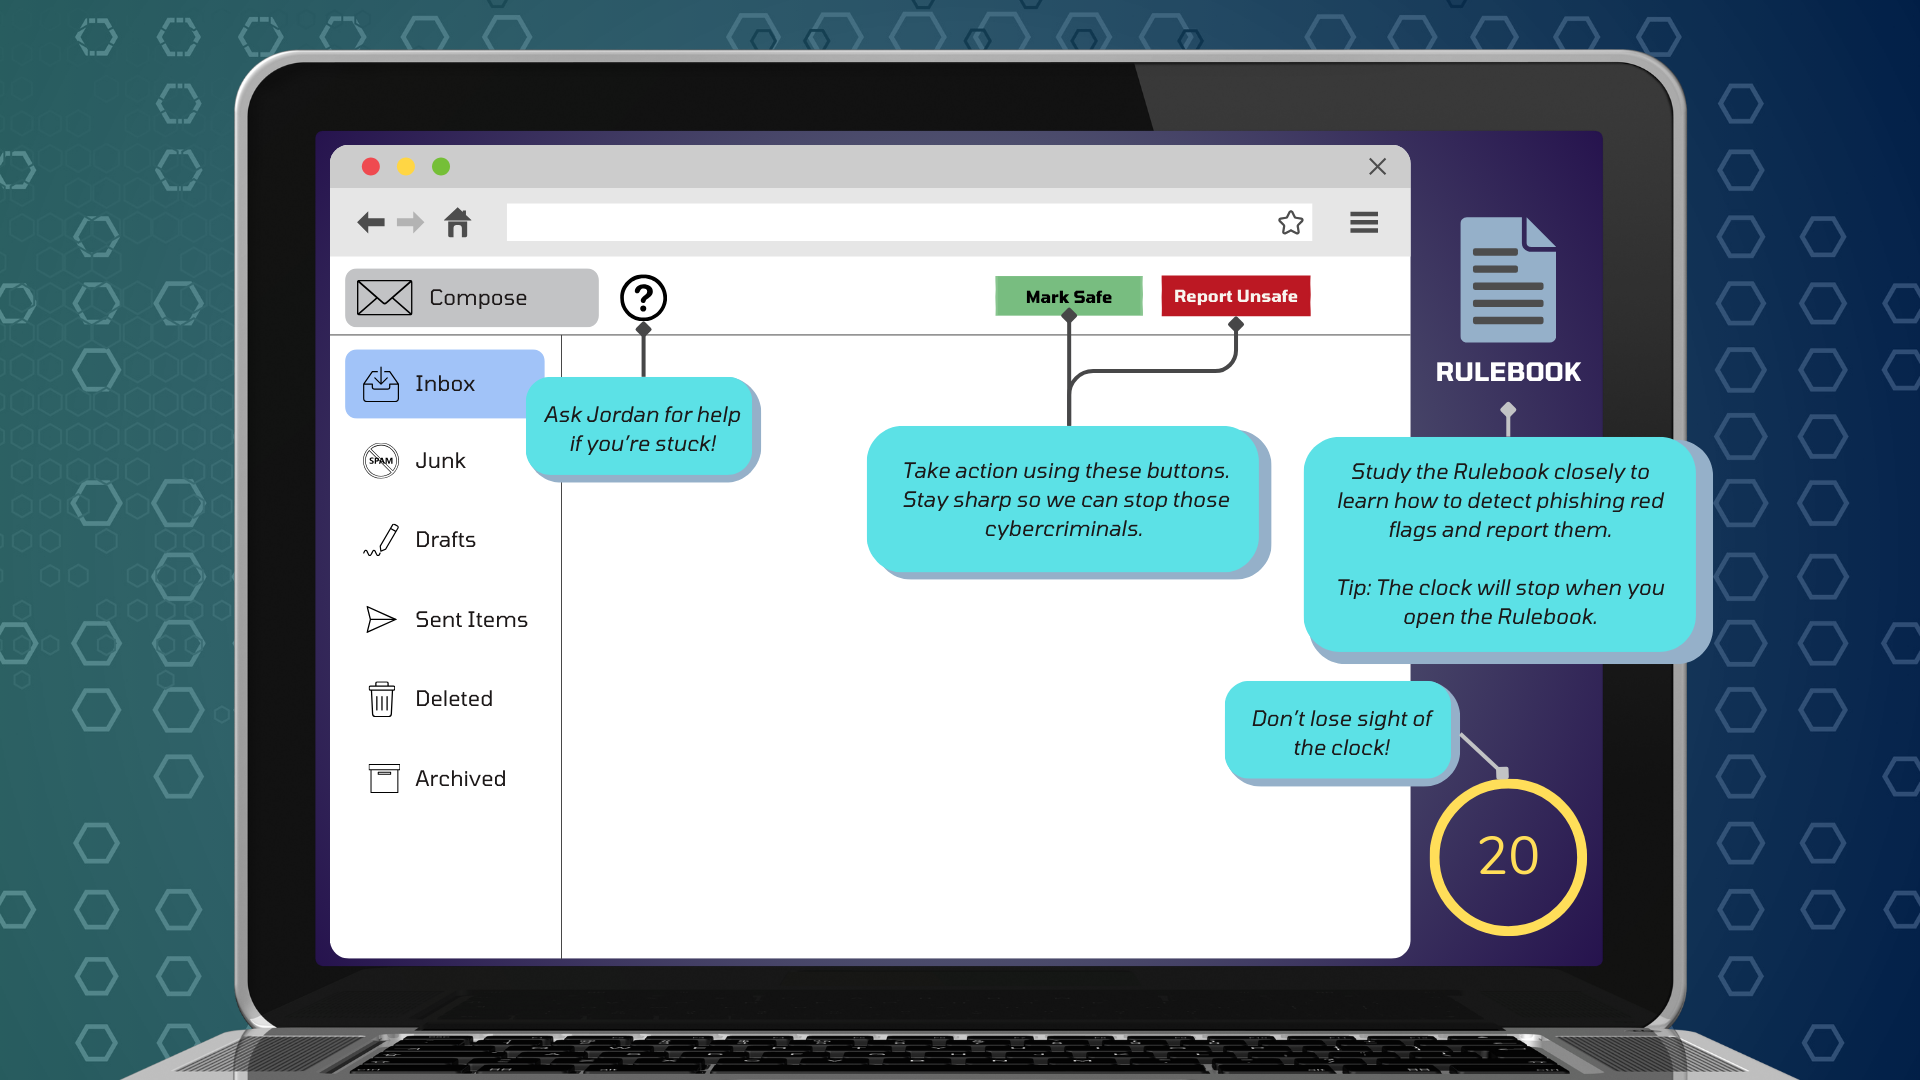
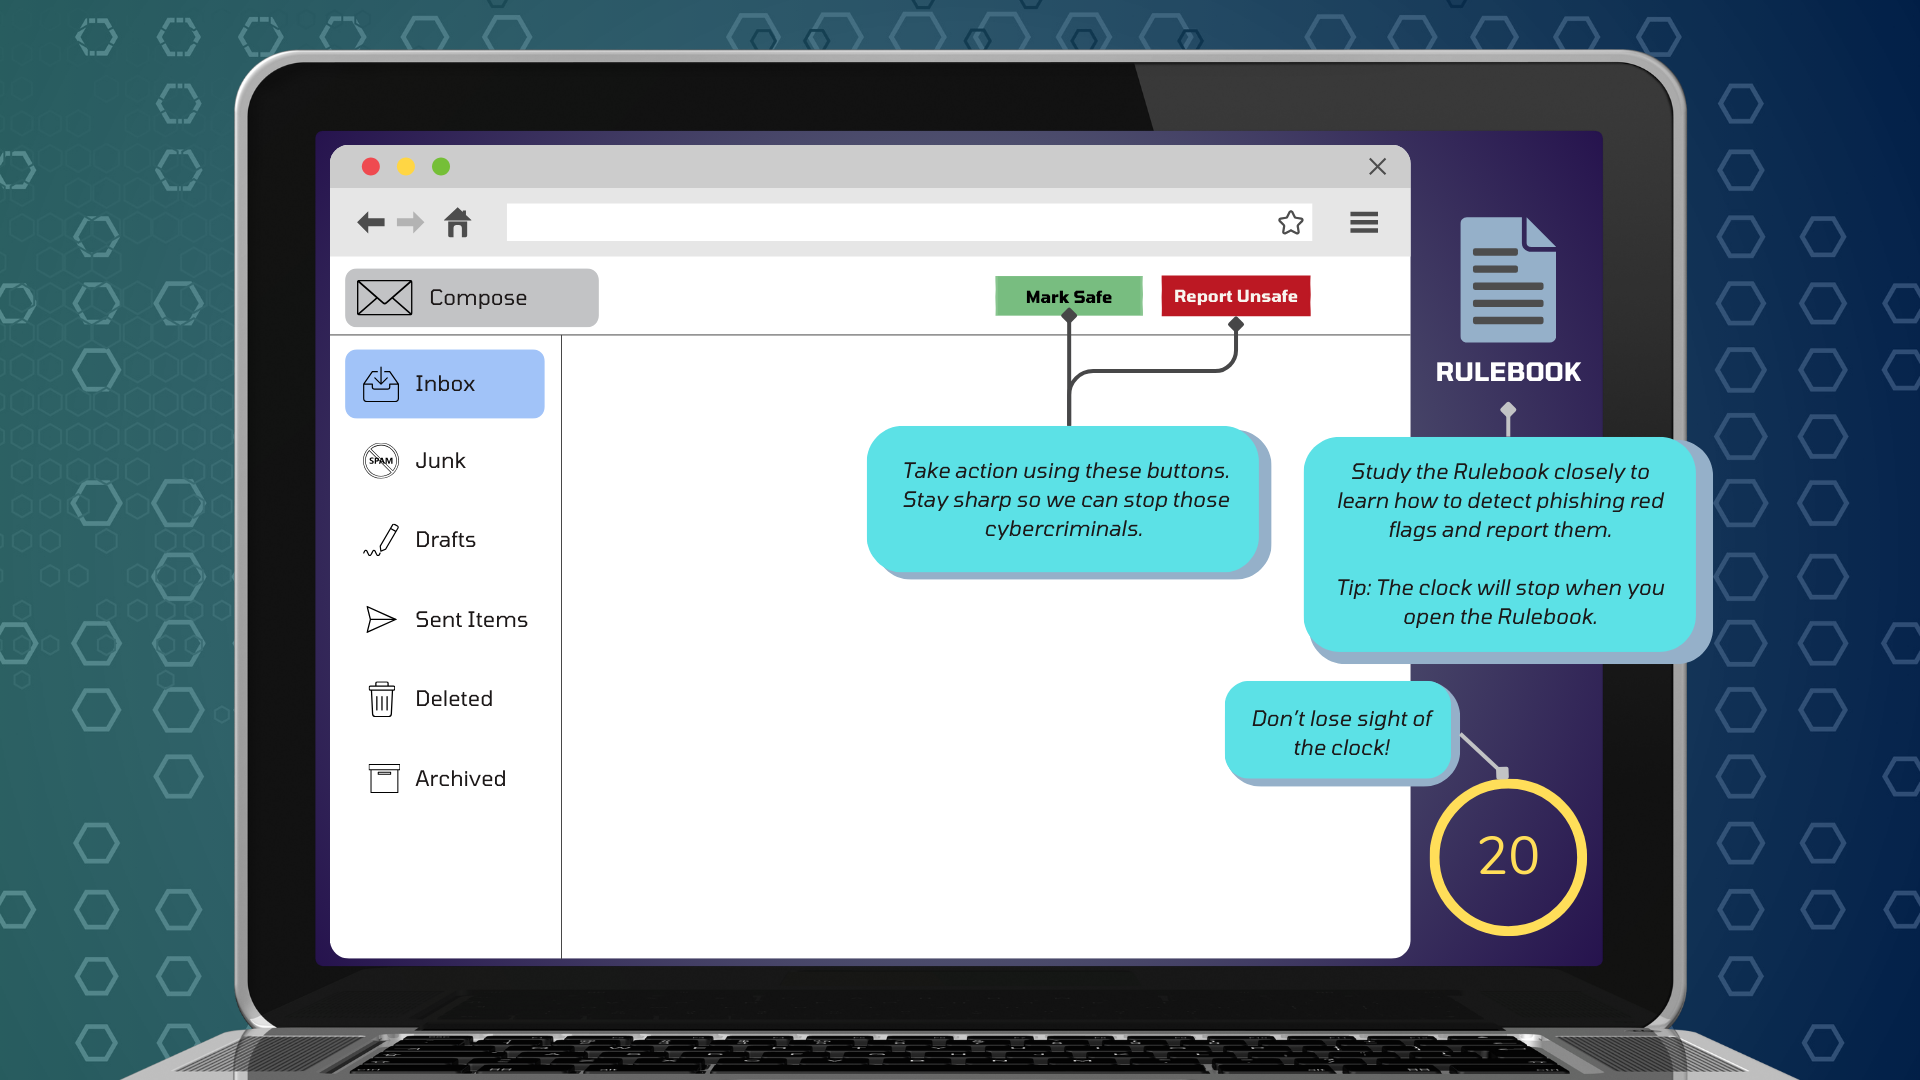
Added website and text scenes

Changed region(s): [[0.25, 0.2444, 0.4062, 0.4583]]

diff --git a/src/Text.js b/src/Text.js
@@ -1,4 +1,4 @@
-// Email.js
+// Text.js
 
 import React, { useState, useEffect } from 'react';
 import { useNavigate, useLocation } from 'react-router-dom';
@@ -24,34 +24,30 @@ const renderTime = ({ remainingTime }) => {
     );
   };
 
-const emails = [
+const texts = [
 
     {
-        image: "/assets/BGP_6Email1.png",
+        image: "/assets/BGP_7Text0.png",
     },
 
     {
-        image: "/assets/BGP_6Email2.png",
+        image: "/assets/BGP_7Text1.png",
     },
 
     {
-        image: "/assets/BGP_6Email3.png",
+        image: "/assets/BGP_7Text2.png",
     },
 
     {
-        image: "/assets/BGP_6Email4.png",
+        image: "/assets/BGP_7Text3.png",
     },
 
     {
-        image: "/assets/BGP_6Email5.png",
-    },
-
-    {
-        image: "/assets/BGP_6Email6.png",
+        image: "/assets/BGP_7Text4.png",
     },
 ];
 
-function Email() {
+function Text() {
     const navigate = useNavigate();
     const location = useLocation();
     const query = new URLSearchParams(location.search);
@@ -77,11 +73,11 @@ function Email() {
     
     const updateScene = (sceneIndex) => {
         setCurrentScene(sceneIndex);
-        navigate(`/email?scene=${sceneIndex}`);
+        navigate(`/text?scene=${sceneIndex}`);
     };
 
     const handleNext = () => {
-        if (currentScene < emails.length - 1) {
+        if (currentScene < texts.length - 1) {
             updateScene(currentScene + 1);
         } else {
             setShowEndPopup(true);
@@ -114,81 +110,101 @@ function Email() {
     const handleCloseTimeoutPopup = () => {
         setShowTimeoutPopup(false);
         setCurrentScene(0);
-        navigate(`/email?scene=0`);
+        navigate(`/text?scene=0`);
         setKey(prevKey => prevKey + 1); // Reset the timer by changing the key
         setIsTimerPlaying(true);
     };
     
     const openEndPopup = () => {
         setShowEndPopup(true); 
-    }
+    };
 
     const handleCloseEndPopup = () => {
         setShowEndPopup(false);
-        navigate("/text?scene=0", { replace: true});
+        navigate("/text?scene=4", { replace: true});
 
     };
+
+    const isLastScene = currentScene === texts.length - 1;
 
     return (
         <div className='email-container'>
             <img
-                src={emails[currentScene].image}
-                alt={`Email ${currentScene + 1}`}
+                src={texts[currentScene].image}
+                alt={`Text ${currentScene + 1}`}
                 className='intro-image'
             />
 
-            <div className='nav-buttons'>
-                <div
-                    className='safe'
-                    onClick={openRulebookPopup}
-                >
-                    <img
-                        src="/assets/safebtn.png"
-                        alt="Mark Safe button"
-                    />
-                </div>
-                <div
-                    className='unsafe'
-                    onClick={handleNext}
-                >
+            {(currentScene !== 0 && currentScene !==4) && (
+                <>
+                    <div className='nav-buttons'>
+                        <div
+                            className='safe'
+                            onClick={openRulebookPopup}
+                        >
+                            <img
+                                src="/assets/safebtn.png"
+                                alt="Mark Safe button"
+                            />
+                        </div>
+                        <div
+                            className='unsafe'
+                            onClick={handleNext}
+                        >
 
-                    <img
-                        src="/assets/unsafebtn.png"
-                        alt="Report Unsafe button"
-                    />
-                </div>
-            </div>
+                            <img
+                                src="/assets/unsafebtn.png"
+                                alt="Report Unsafe button"
+                            />
+                        </div>
+                    </div>
 
-            <div className='rulebook-button-container'>
-                <img
-                    src="/assets/rulebookbtn.png"
-                    alt="Rulebook button"
-                    className='rulebook-button'
-                    onClick={openRulebook}
-                />
-            </div>
+                    <div className='rulebook-button-container'>
+                        <img
+                            src="/assets/rulebookbtn.png"
+                            alt="Rulebook button"
+                            className='rulebook-button'
+                            onClick={openRulebook}
+                        />
+                    </div>
 
-            <div className="App">
-                <div className="timer-wrapper">
-                <CountdownCircleTimer
-                    key={key} // Key to control the reset
-                    isPlaying={isTimerPlaying}
-                    isSmoothColorTransition={true}
-                    duration={30}
-                    colors={["#3257FF", "#F7B801", "#A30000", "#A30000"]}
-                    colorsTime={[10, 6, 3, 0]}
-                    onComplete={() => {
-                        handleTimesUp();
-                        return { shouldRepeat: false, delay: 1};
-                    }}
-                    size={140}
-                    strokeWidth={6}
-                >
-                    {renderTime}
-                </CountdownCircleTimer>
-                </div>
-            
-            </div>
+                    <div className="App">
+                        <div className="timer-wrapper">
+                            <CountdownCircleTimer
+                                key={key} // Key to control the reset
+                                isPlaying={isTimerPlaying}
+                                isSmoothColorTransition={true}
+                                duration={20}
+                                colors={["#3257FF", "#F7B801", "#A30000", "#A30000"]}
+                                colorsTime={[10, 6, 3, 0]}
+                                onComplete={() => {
+                                    handleTimesUp();
+                                    return { shouldRepeat: false, delay: 1};
+                                }}
+                                size={140}
+                                strokeWidth={6}
+                            >
+                                {renderTime}
+                            </CountdownCircleTimer>
+                        </div>
+                    </div>
+                </>
+            )}
+
+            {(currentScene === 0 || currentScene === 4) && (
+                <div className='navigation-button'>
+                    <div
+                        className={`endemail ${isLastScene}`}
+                        onClick={handleNext}
+                    >
+                        <img
+                            src="/assets/nextbtn.png"
+                            alt="Next button"
+                        />
+                    </div>
+                </div>          
+            )}
+
 
             {showRulebookPopup && (
                 <Popup
@@ -206,7 +222,7 @@ function Email() {
 
             {showEndPopup && (
                 <Popup
-                    message="Great job completing Task One!"
+                    message="Great job completing Task Two!"
                     onClose={handleCloseEndPopup}
                 />
             )}
@@ -221,4 +237,4 @@ function Email() {
 }
   
 
-export default Email;
+export default Text;

diff --git a/src/App.js b/src/App.js
@@ -6,6 +6,7 @@ import Intro from "./Intro";
 import PostTest from "./PostTest";
 import { TestCompletionProvider, TestCompletionContext } from './TestCompletionContext';
 import Email from "./Email";
+import Text from "./Text";
 
 
 function App() {
@@ -18,6 +19,7 @@ function App() {
           <Route path="/Intro" element={<Intro />} />
           <Route path="/PostTest" element={<PostTest />} />
           <Route path="/Email" element={<Email />} />
+          <Route path="/Text" element={<Text />} />
         </Routes>
       </Router>
     </TestCompletionProvider>

diff --git a/src/App.css b/src/App.css
@@ -151,6 +151,11 @@ button {
   
 }
 
+.endemail {
+  margin-top: -38%;
+  margin-left: 130%;
+}
+
 .email-container {
   text-align: center;
   background-color: #262A55;
